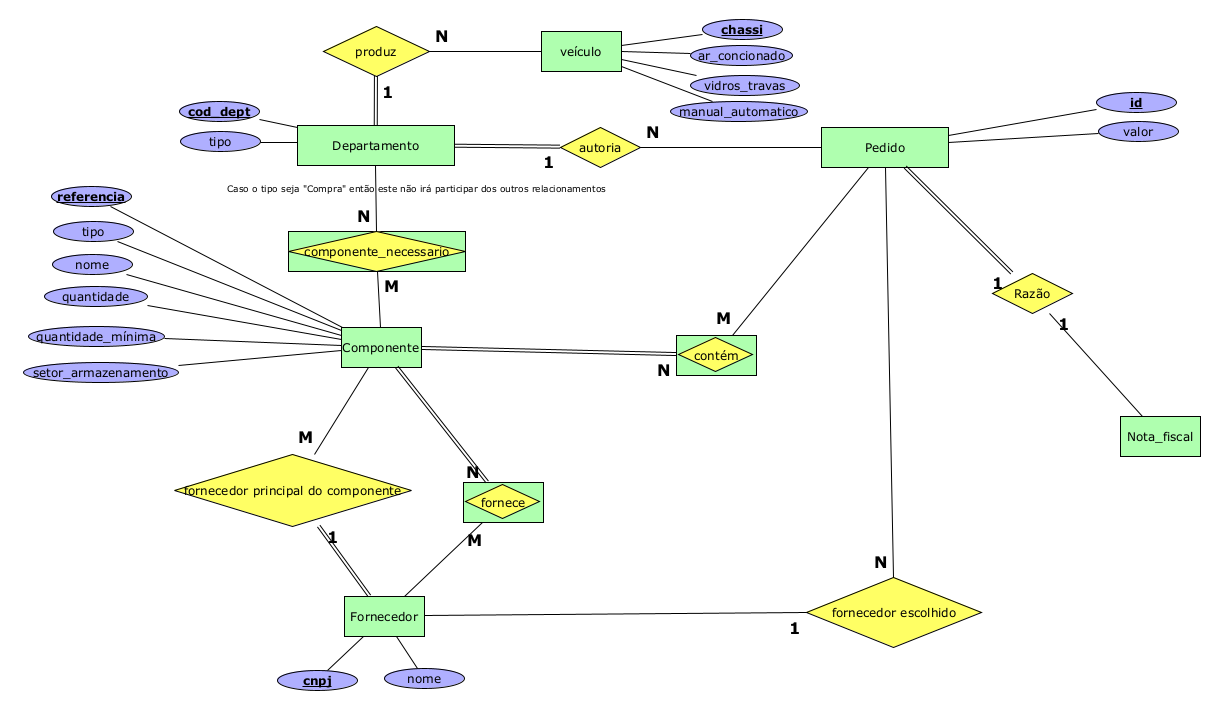
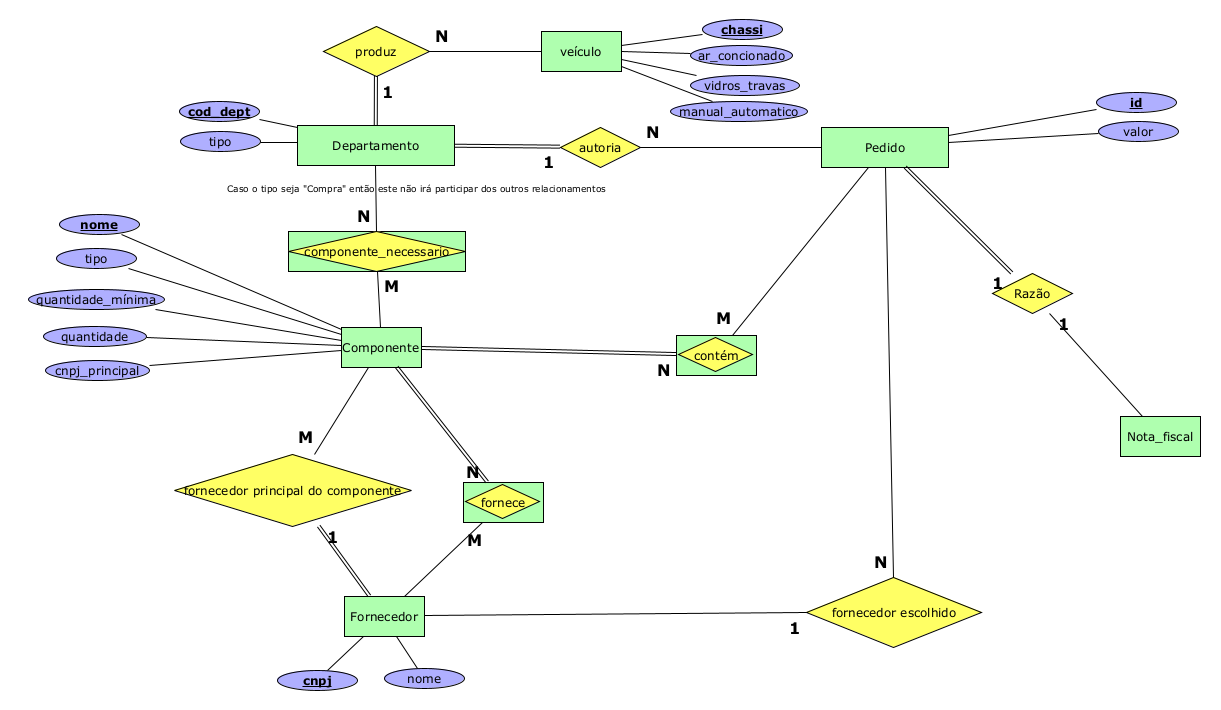
update

Changed region(s): [[0.0, 0.2479, 0.2801, 0.5577]]

diff --git a/Trabalho01/AppPython/Data/Fornecedor.py b/Trabalho01/AppPython/Data/Fornecedor.py
@@ -1,0 +1,59 @@
+from Model import *
+
+class Fornecedor():
+
+    __cnpj = None
+    __nome = None
+
+    def __init__(self):
+        self.__cnpj = ""
+        self.__nome = ""
+
+    def cnpj(self, cnpj):
+        self.__cnpj = cnpj
+        return self
+    
+    def getCnpj(self):
+        return self.__cnpj
+    
+    def nome(self, nome):
+        self.__nome = nome
+        return self
+
+    def getNome(self):
+        return self.__nome
+    
+    def fromTupla(self, tupla):
+        self.__cnpj = tupla[0]
+        self.__nome = tupla[1]
+        return self
+    
+    def __repr__(self):
+        return u'{}:{}'.format(self.__cnpj, self.__nome)
+    
+class FornecedorDAO():
+
+    __sqlSelectAll = None
+    __sqlSelectNewCodDept = None
+    __sqlInsert = None
+    
+    def __init__(self):
+        self.__sqlSelectAll = "select * from fornecedor"
+        self.__sqlInsert = "insert into fornecedor values('{}', '{}')"
+
+    # Retorna uma lista com um objeto de cada departamento do banco de dados:
+    def selectAll(self) -> list:
+        con = Connection()
+        cursor = con.cursor()
+        cursor.execute(self.__sqlSelectAll)
+        result = cursor.fetchall()
+        fornecedores = []
+        for line in result:
+            fornecedores.append(Fornecedor().fromTupla(line))
+        return fornecedores
+    
+    def insertDepartamento(self, fornecedor):
+        con = Connection()
+        cursor = con.cursor()
+        cursor.execute(self.__sqlInsert.format(fornecedor.getCnpj(), fornecedor.getNome()))
+        con.commit()

diff --git a/Trabalho01/AppPython/Controller.py b/Trabalho01/AppPython/Controller.py
@@ -23,16 +23,20 @@ class Controller():
 
     # Esta função criar os campos de inserção de acordo com a quantidade de atributos da entidade "Departamento":
     def setInserirDepartamento(self):
-        campos = ["Código de departamento:", "Tipo do departamento:"]
-        self.__view.criarCamposDeInsercao(2, campos)
+        # Como o codDept é gerado automaticamente (por sequência, basta inserir o tipo):
+        campos = ["Tipo do departamento:"]
+        self.__view.criarCamposDeInsercao(1, campos)
         self.__view.criarBotaoDepartamento()
 
     # Esta função pega os dados do campo de inserção e insere na tabela de departamento do banco de dados:
     def inserirDepartamento(self):
-        dados = self.__view.getCamposDeInsercao()
+        dados = [-1]
+        dados = dados + (self.__view.getCamposDeInsercao())
         self.__view.criarCamposDeInsercao(0)
         newDepartamento = Departamento().fromTupla(dados)
         self.__departamentoDAO.insertDepartamento(newDepartamento)
+        text = f"Departamento adicionando com codDept = {self.__departamentoDAO.selectCurrCodDept()}!"
+        self.__view.setCampoDeExibicao(text)
 
     # Esta função criar os campos de inserção de acordo com a quantidade de atributos da entidade "Veiculo":
     def setInserirVeiculo(self):

diff --git a/Trabalho01/AppPython/Model.py b/Trabalho01/AppPython/Model.py
@@ -24,7 +24,7 @@ class Connection():
     def __new__(cls):
         if cls.__instance is None:
             cls.__instance = super().__new__(cls)
-            cls.__connection = postgres.connect(database="Trabalho 01",
+            cls.__connection = postgres.connect(database="Trabalho 01 versão corrigida",
                     host="localhost",
                     user="postgres",
                     password="1234",

diff --git a/Trabalho01/AppPython/Data/Componente.py b/Trabalho01/AppPython/Data/Componente.py
@@ -1,13 +1,14 @@
 from Model import *
 
-class Departamento():
+class Componente():
 
-    __codDept = None
-    __tipo = None
+    
 
     def __init__(self):
-        self.__codDept = -1
-        self.__tipo = ""
+        self.__referencia = -1
+        self.__quantidadeMin = -1
+        self.__quantidade = -1
+        self.__setorDeArmazenamento = -1
 
     def codDept(self ,codDept):
         self.__codDept = codDept
